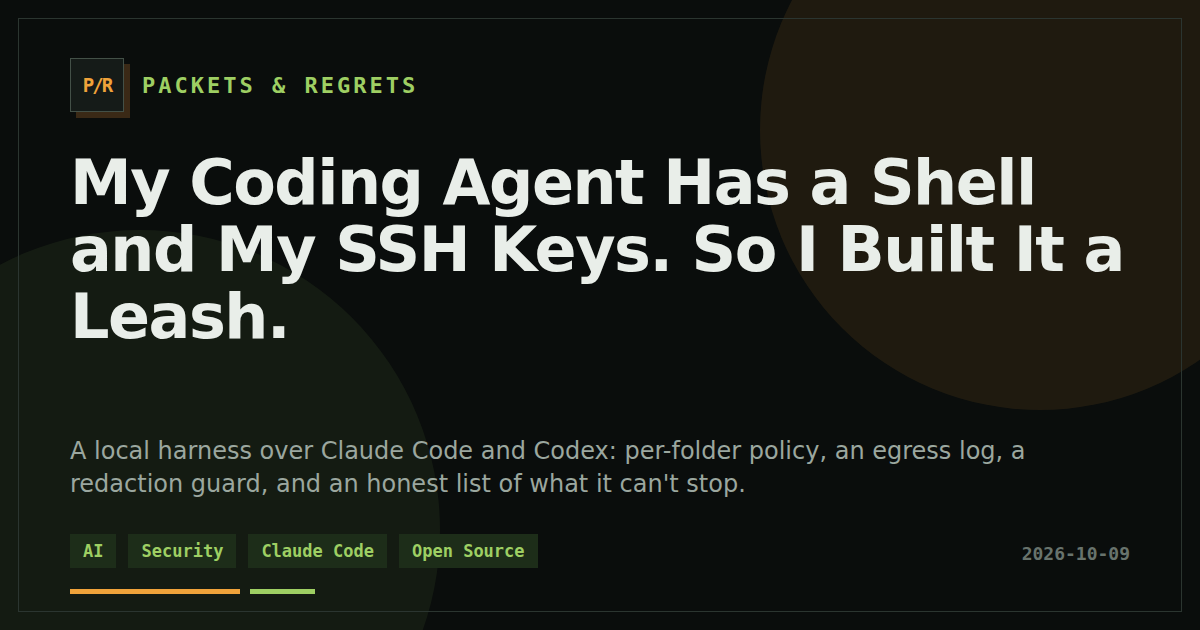
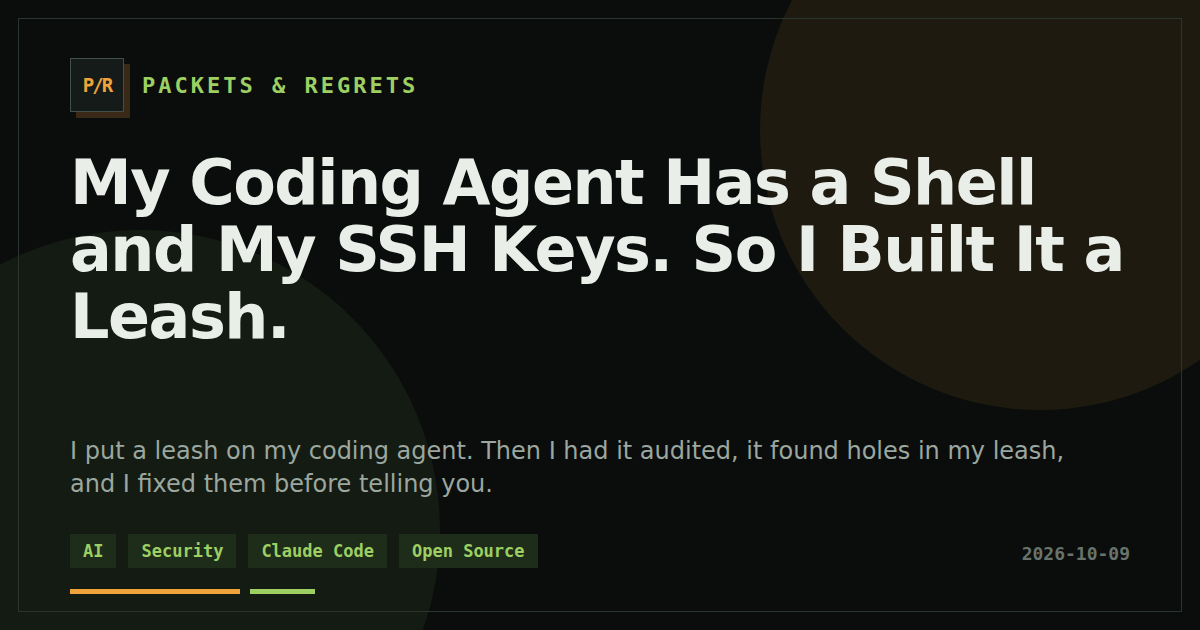
Publish: My Coding Agent Has a Shell and My SSH Keys. So I Built It a Leash.

Changed region(s): [[0.0617, 0.6937, 0.8942, 0.7841]]

diff --git a/content/posts/my-coding-agent-has-a-shell-and-my-ssh-keys.md b/content/posts/my-coding-agent-has-a-shell-and-my-ssh-keys.md
@@ -1,8 +1,8 @@
 ---
 title: "My Coding Agent Has a Shell and My SSH Keys. So I Built It a Leash."
-description: "A local harness over Claude Code and Codex: per-folder policy, an egress log, a redaction guard, and an honest list of what it can't stop."
+description: "I put a leash on my coding agent. Then I had it audited, it found holes in my leash, and I fixed them before telling you."
 date: 2026-10-09T16:27:48+02:00
-draft: true
+draft: false
 categories: ["Build Notes"]
 tags: ["AI", "Security", "Claude Code", "Open Source", "Tooling"]
 ---
@@ -11,43 +11,37 @@ Think about what you actually agreed to when you started running a coding agent 
 
 It runs as you. It can read your home folder, which has your SSH keys, your cloud credentials and your GitHub token in it. It can run any command you can run. And the thing standing between that and a bad afternoon is a prompt that says "Allow?" and a hand that has pressed `y` four hundred times today.
 
-I like these tools. I use them every day. I also work in security, so I spent a while looking at that arrangement and having feelings about it.
+I like these tools. I use them every day. I also work in security, so I looked at that arrangement for a while and had feelings about it. Mostly the feeling of a man who has been handing his house keys to a very enthusiastic stranger and calling it "productivity".
 
-The result is [**HIB**](https://github.com/matijazezelj/hib), harness in a box. It's the newest of the in-a-box family, and it's the odd one out: not a Docker Compose stack, but a local program that sits between me and the agent. It's MIT licensed, it's two days old as I write this, and this post is about what it does and, more usefully, what it *doesn't*.
+The result is [**HIB**](https://github.com/matijazezelj/hib), harness in a box. It's the newest of the in-a-box family, and the odd one out: not a Docker Compose stack, but a local program that sits between me and the agent. MIT licensed, about a week old as I write this.
 
-One disclosure up front, because the last few posts taught me to make them early. **I read the code. I did not run it for this post.** Everything below is from the source and the README, not from a benchmark. Where I'm repeating a claim I haven't checked, I'll say so.
+Disclosure up front, because the last few posts taught me to make them early. **I read the code. I did not run HIB for this post**, and I have not run its test suite. Where I tested something, I'll say exactly what. Everything else is source and README.
 
 ## What it is
 
-You run `hib` in a project folder and you get a coding agent in your terminal. Run `hib serve` and you get the same folder in a browser, on the loopback interface only. Under the hood it drives the official Claude Code and Codex CLIs, on your own subscriptions, the way you'd run them yourself. There is also a small local router that speaks the OpenAI API, so other tools can point at it.
+You run `hib` in a project folder and you get a coding agent in your terminal. Run `hib serve` and you get the same folder in a browser, on the loopback interface only. Under the hood it drives the official Claude Code and Codex CLIs, on your own subscriptions, the way you'd run them yourself. There's also a small local router that speaks the OpenAI API, so other tools can point at it.
 
-The README's position on credentials is blunt: it doesn't extract your logins and doesn't call private endpoints. That's the README's claim, and I only checked part of it. What I did confirm is the environment: when HIB starts a CLI, the child process gets a short allow-list of variables (`PATH`, `HOME`, `TERM` and friends) plus whatever that specific account needs. Your shell's `AWS_SECRET_ACCESS_KEY` doesn't ride along by accident.
+The README says it doesn't extract your logins or call private endpoints. That's the README's claim and I only checked part of it. What I did confirm is the environment: a child process gets a short allow-list of variables (`PATH`, `HOME`, `TERM` and friends) plus whatever that account needs. Your shell's `AWS_SECRET_ACCESS_KEY` doesn't tag along by accident.
 
 That's the boring part. The interesting part is the leash.
 
 ## The leash
 
-**Approvals that mean something.** Every edit shows a diff and waits for Allow, Always or Deny. The detail I like is what "Always" covers. It's keyed to the program *and* the subcommand, so allowing `git status` doesn't quietly allow `git push`. And anything compound, a pipe, a semicolon, a substitution, a redirect, only ever matches itself. In the code's own words, `cat x; rm -rf y` never rides on "cat".
+**Approvals that mean something.** Every edit shows a diff and waits for Allow, Always or Deny. The detail I like is what "Always" covers. It's keyed to the program *and* the subcommand, so allowing `git status` doesn't quietly allow `git push`, and anything compound (a pipe, a semicolon, a substitution) only ever matches itself. In the code's own words, `cat x; rm -rf y` never rides on "cat".
 
-If you've ever clicked "always allow" on a command and then watched the agent use that permission for something you didn't picture, you know why this matters.
+**Every command runs in the CLI's own OS sandbox.** This is the big one, and it landed after my first read. Writes stay in the folder, the network is closed, the daemon on localhost can't be reached, and a deny list covers `~/.hib`, the CLI logins, `~/.ssh`, `~/.aws`, `~/.gnupg` and the GitHub CLI's config. It applies to every process a command starts, including the script the agent just wrote and ran. On Linux that's bubblewrap; if the sandbox isn't available, auto mode and background tasks simply switch off.
 
-**Edits to the agent's own cage are meant to need a human, every time.** The design keeps the tool-config folders and `.git/` out of "always allow edits", and the reasoning is sound: if an agent can edit its own permission file or plant a git hook, the approval prompt is decoration. How well that holds in practice is something I haven't finished testing, so I'm not going to vouch for it here.
+Before that, "auto mode" was a regex deny-list of scary commands. A deny-list is a list of the things you thought of, which is a very short list at 4pm on a Friday. An OS sandbox doesn't care what you thought of.
 
-**Credentials are off-limits.** The Claude driver carries a deny list for reads of `~/.ssh`, `~/.aws`, `~/.gnupg`, the GitHub CLI's config, and the agent CLIs' and HIB's own folders. Sensible, and one line of config you could write yourself. The value is that somebody wrote it down in one place.
+**Sensitive folders get a stricter regime.** You can pin a folder to a single vendor account. In that folder nothing copies data elsewhere: no failover to another model, no second-opinion advisor, no classifier call. Every file read asks first. Secrets in a prompt are blocked outright, and the repo's own tool settings and hooks are ignored.
 
-**Sensitive folders get a stricter regime.** You can pin a folder to a single vendor account. In that folder, nothing copies data elsewhere: no failover to another model, no second-opinion advisor, no classifier call. Every file read asks first, so you see each file before its contents go out. Secrets in a prompt are blocked outright, and the repo's own tool settings and hooks are ignored.
-
-The part I want to underline is *where the policy lives*. It's stored in HIB's own database, not in the repo. An agent working in that folder can't edit the rule that restricts it by editing a file in the folder, because the rule isn't in the folder. (Anything running as you can still reach HIB's own directory. The project lists local processes as trusted, and in a sensitive folder every shell command asks first.) Lifting the policy takes a command at the terminal, not just the API token, so a stolen token can tighten things but can't loosen them.
-
-That's the right shape. Policy belongs somewhere the thing it governs can't reach.
+The part I want to underline is *where the policy lives*: in HIB's own database, not the repo. An agent in that folder can't edit the rule that restricts it by editing a file, because the rule isn't in the folder. Lifting it takes a command at the terminal, not just the API token. Policy belongs somewhere the thing it governs can't reach. That's not a HIB idea, it's a thing everyone knows and then puts in `.eslintrc` anyway.
 
 ## The receipt
 
 A leash tells you what it stopped. A receipt tells you what got through.
 
-HIB keeps an egress log: for each turn, the redacted prompt, the account it went to, and every tool call. `hib workspace egress` shows what left the machine in the latest session. For the router, `hib egress last` prints the exact text that was sent.
-
-The README says the next sentence itself, and I respect it: the log stores that redacted text locally, so anything the redaction guard missed is sitting in the log too. A receipt can be a liability. Write it down, protect the file (it's mode `0600`), and don't pretend it's empty.
+HIB keeps an egress log: for each turn, the redacted prompt, the account it went to, and every tool call. The README then says the quiet part itself: the log stores that redacted text locally, so anything the redaction guard missed is sitting in the log too. A receipt can be a liability. Mode `0600`, protect it, and don't pretend it's empty.
 
 ## Send the code, not the data
 
@@ -57,43 +51,46 @@ My favorite idea in the project is also the smallest. Say you want an answer fro
 hib analyze logins.csv "impossible travel: consecutive logins per user implying more than 900 km/h"
 ```
 
-The model never sees the rows. It gets a profile: column names and types, counts, and three invented rows that show the shape. Columns that look like identities are marked, and their values are never shown. The model writes a function. You read it and approve it. It runs on your machine, and the answer stays there.
+The model never sees the rows. It gets a profile: column names and types, counts, and three invented rows that show the shape. Identity-looking columns are marked and their values are never shown. The model writes a function, you read it and approve it, and it runs on your machine. An offline place-name list lets that code work out distances and speeds without a single real city leaving the building.
 
-There's an offline place-name list for geography questions, so the code can work out distances and speeds without a single real city name leaving the building.
+For questions that do need rows, `hib ask -f` swaps identifying columns for stable tokens, so grouping by email domain still works, and puts the real values back in the answer. Spotting identifying columns is heuristic and the README says to check the list. Check the list.
 
-For questions that do need rows, `hib ask -f` swaps identifying columns for stable tokens, so grouping by email domain still works without revealing the domain, and puts the real values back in the answer.
+## The part where I audited my own leash
 
-It's a better default than "be careful what you paste". It isn't perfect, and the README is upfront that spotting identifying columns is heuristic and you should check the list.
+Here's the bit I'd skip if I were vain, which is why I'm including it.
 
-## What it does not do
+I had my assistant go through the code read-only and try to break the claims. It found four things, and I'm telling you what they were because the fixes are public now.
+
+1. **The protected-path check didn't resolve paths.** The rule that keeps "Always allow edits" away from `.git/` and the tool-config folders looked at the first segment of the raw string. So `src/../.git/hooks/pre-commit`, a doubled slash, or a symlink into `.git` all sailed through as "an ordinary edit inside the folder". The whole point of that rule is that an agent can't plant a git hook, and I'd built a door with the lock on the wrong side. I tested this by running verbatim copies of the two functions against a scratch repo; it was real. Fixed by resolving first and comparing case-insensitively (macOS says `.GIT` is the same folder), plus a test with fourteen spellings that must be protected and six that mustn't.
+2. **Auto mode approved web fetches and searches.** A prompt-injected page telling the agent to "search for" something with a secret in the query is an exfiltration channel with a friendly name. Web tools now always ask.
+3. **"Always" on `python x.py` also covered `python -c …`.** Interpreters and wrappers (`python`, `node`, `bash`, `env`, `xargs`, `find`, `sudo` and friends) now only match the exact command line, because their arguments *are* the code.
+4. **The Linux analysis sandbox was a restricted JavaScript context and a good attitude.** With bubblewrap installed it's now a read-only filesystem, an empty home folder and no network. I ran the exact flags with a probe: sandboxed, home hidden, writes blocked, network blocked; unsandboxed, all three open.
+
+Four findings from one read. In my own project. Written by me, a security guy, with opinions about other people's code. I'd like to say I was surprised.
+
+I verified these fixes the way I verified everything else here: by reading the diff and exercising the logic I could extract. I did not run the project's test suite myself, so "fixed" means "the diff does what it says and my probes agree". For what it's worth, the project's CI, on Ubuntu and macOS, passed on the merge.
+
+## What it still does not do
 
 This is the section I'd want if I were deciding whether to trust it.
 
-- **Auto mode is a speed bump, not a sandbox.** It approves edits and commands inside the folder and still asks for network tools, pushes, publishing, `sudo`, recursive deletes and anything touching HIB's own folders. The project says so itself: a script the agent writes and runs can do anything you can. A deny-list of risky commands is a list, and lists have gaps.
-- **The analysis sandbox is a macOS feature.** There, model-written code runs with no network, no writes and no reads under your home folder. On Linux it runs in a separate process with a restricted JavaScript context. That's a weaker promise, so know which of the two you're on.
+- **Local processes outside an agent sandbox are trusted.** Anything else running as your user can still read `~/.hib/token`. HIB protects against its agents, not against your own account. The browser now needs a one-time login code instead of handing the cookie to anyone who asks, which is an improvement and not a force field.
+- **The CLIs' own file tools aren't sandboxed.** Read and Edit are held to the folder by permission rules and HIB's prompts. If those prompts are wrong, as finding 1 was, nothing else catches it.
+- **Your own CLI config still applies.** Broad allow rules in your `settings.json` bypass HIB's prompts, and commands you've listed as sandbox exclusions run outside the sandbox.
 - **Codex reads can't be gated.** It runs read-only commands without asking. For a sensitive folder, use a Claude account.
-- **Name detection is a model.** The optional local model scored 24 of 24 and 19 of 20 entities on two small hand-labelled sets. That's encouraging and small. It fails closed (if the model is missing, the request waits for you), which is the correct way to fail.
-- **Local processes are trusted.** Anything already running as you can read `~/.hib`. HIB raises the bar for a browser, a website or a cloned repo. It does not sandbox your own account.
-- **Retention and training are the vendor's business.** The harness can't change what a subscription does with your data.
-
-None of this is a flaw in the pitch. It's the pitch, stated plainly.
-
-## What I checked, and what I didn't
-
-I read the server's request handling, the permission and "always" logic, the credential deny list, the child-process environment, how it starts git and the CLIs, the analysis runner and sandbox profile, and the guard's configuration. Loopback only, a Host check against DNS rebinding, an Origin check, a strict same-site cookie, argument arrays instead of shell strings, and `--` before paths. A scan of the repo for committed secrets matched only test files.
-
-I did not run the test suite (CI runs it on Ubuntu and macOS, and there are over 150 tests), I did not try to attack a running instance, and I did not read every one of the 86 files. A review that says "looks good" about code it only skimmed is how things get a reputation they didn't earn.
-
-I also had my assistant go through the code read-only, and it came back with notes I'm still working through. If any of them turn out to matter, they get fixed first and written up afterwards, in that order.
+- **Name detection is a model.** The optional local model scored 24 of 24 and 19 of 20 entities on two small hand-labelled sets. Encouraging, small, and it fails closed, which is the correct way to fail.
+- **Retention and training are the vendor's business.** A harness can't change what a subscription does with your data.
 
 ## If you want to copy the ideas
 
-- **Keep the rules where the agent can't write.** A policy file in the repo is a suggestion. A policy in a database or a different account is a rule.
-- **Scope "always".** Allow a command and a subcommand, never a bare program, and never a compound line.
+- **Keep the rules where the agent can't write.** A policy file in the repo is a suggestion. A policy in a database is a rule.
+- **Use the OS, not a regex.** If your "safe mode" is a list of bad words, you've built a spell-checker for rm.
+- **Resolve a path before you judge it.** String comparison on a path is how you get `src/../.git`.
+- **Scope "always".** A command and subcommand, never a bare interpreter, never a compound line.
 - **Log what leaves, then protect the log.** The receipt is evidence and also data.
 - **Send code, not data,** wherever a question can be answered without the rows.
-- **Write down what it can't stop.** If your tool's README has no "does not" section, it hasn't been looked at hard enough.
+- **Audit your own stuff.** Preferably before you write a blog post telling people it's secure.
 
-The earlier posts in this family, [From 12,669 Findings to a To-Do List](/posts/one-compose-command-seven-security-tools/) among them, are about the tools that watch a lab. This one is about the other half: the tool that's *in* the lab with a shell, and what you hand it.
+The earlier posts in this family, [From 12,669 Findings to a To-Do List](/posts/one-compose-command-seven-security-tools/) among them, are about the tools that watch a lab. This one is about the tool that's *in* the lab with a shell, and what you hand it.
 
 The code is at [github.com/matijazezelj/hib](https://github.com/matijazezelj/hib). Read it before you trust it. That's the whole point of a box you can open.

diff --git a/README.md b/README.md
@@ -17,6 +17,7 @@ Public URL: <https://blog.zezelj.org>
 - [I Gave My Network Gear a Voice. 99% of What It Said Was One Complaint.](https://blog.zezelj.org/posts/i-gave-my-network-gear-a-voice-and-it-would-not-stop-talking/) — UniFi syslog into [SIB](https://github.com/matijazezelj/sib), pipeline reconciliation, and separating proven noise
 - [I Put One Docker App on Kubernetes. Download Was Fine. Upload Fell Off a Cliff.](https://blog.zezelj.org/posts/i-put-one-docker-app-on-kubernetes-download-was-fine-upload-fell-off-a-cliff/) — k3s + Cilium + Hubble flows into [SIB](https://github.com/matijazezelj/sib), four apps moved over, and a speed test that caught half a test
 - [From 12,669 Findings to a To-Do List: Security Tooling for a Home Lab](https://blog.zezelj.org/posts/one-compose-command-seven-security-tools/)
+- [My Coding Agent Has a Shell and My SSH Keys. So I Built It a Leash.](https://blog.zezelj.org/posts/my-coding-agent-has-a-shell-and-my-ssh-keys/)
 
 ## Local development
 
